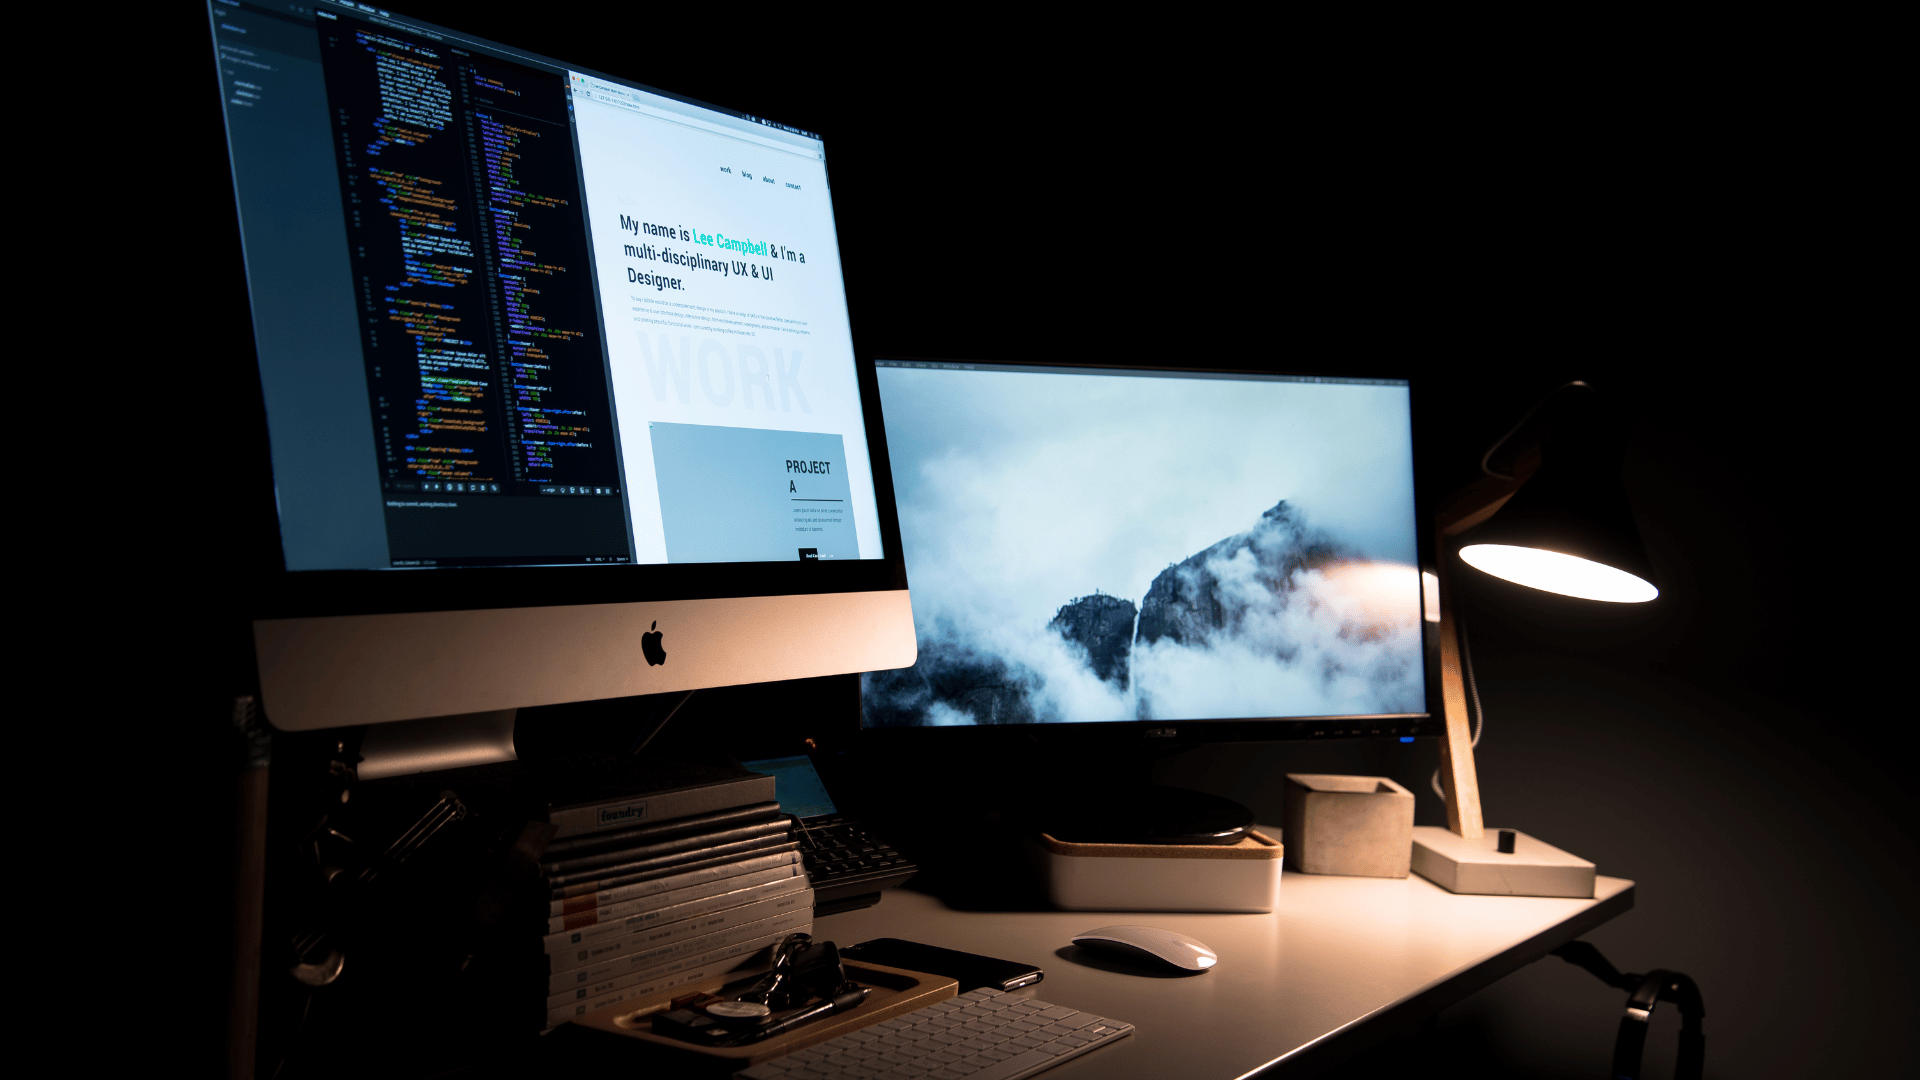
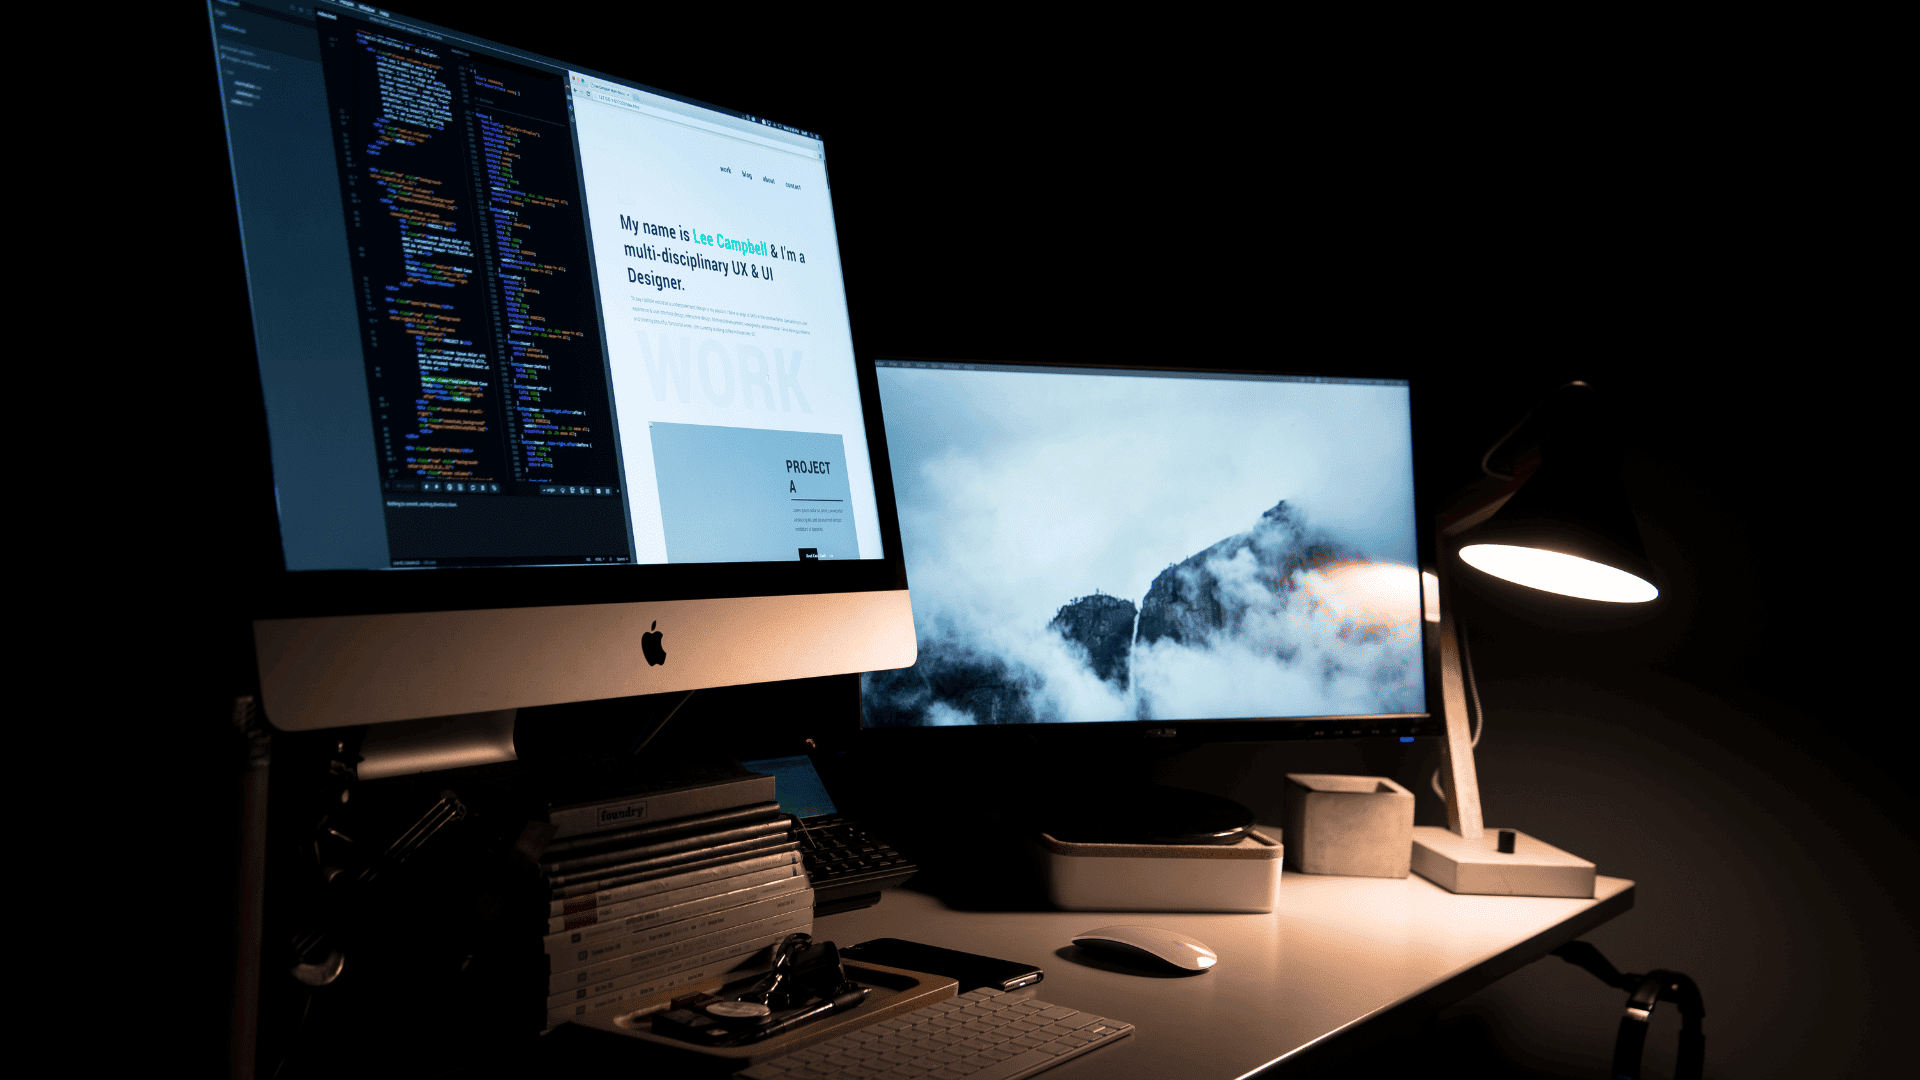
Updates

Changed region(s): [[0.6562, 0.5194, 0.75, 0.6111], [0.75, 0.6111, 0.7812, 0.6417], [0.5938, 0.8556, 0.625, 0.8861]]

diff --git a/package/src/app/services_page/components/sessions.tsx b/package/src/app/services_page/components/sessions.tsx
@@ -1,7 +1,7 @@
 "use client";
 import React, { useEffect, useMemo, useState } from "react";
 import Image from "next/image";
-import { motion } from "framer-motion";
+import { motion, AnimatePresence } from "framer-motion";
 
 // LiveSessionCTA.jsx
 // - Requires: Tailwind CSS + Framer Motion installed in your Next.js project
@@ -14,87 +14,116 @@ export default function LiveSessionCTA({
   tuesdayUrl?: string;
   thursdayUrl?: string;
 }) {
-  // Compute the next Tue/Thu at 6:00 PM in the user's local timezone
+  // Compute the next Tue/Thu at 6:00 PM Eastern Time (handles DST) and return Date in local timezone
   const getNextSessionDate = useMemo(() => {
-    return () => {
-      const targetHours = 18; // 6 PM local time (copy clarifies ET auto-adjust)
-      const now = new Date();
-      const todayDay = now.getDay(); // 0-6 (Sun-Sat)
-      const isTuesday = todayDay === 2;
-      const isThursday = todayDay === 4;
-      const candidateToday = new Date(
-        now.getFullYear(),
-        now.getMonth(),
-        now.getDate(),
-        targetHours,
-        0,
-        0,
-        0
-      );
-      const nowMs = now.getTime();
-      const candidateMs = candidateToday.getTime();
+    const NEW_YORK_TZ = "America/New_York";
 
-      // Helper to add days
-      const addDays = (date: Date, days: number) => {
-        const d = new Date(date);
-        d.setDate(d.getDate() + days);
-        return d;
+    const getNewYorkParts = (date: Date) => {
+      const formatter = new Intl.DateTimeFormat("en-US", {
+        timeZone: NEW_YORK_TZ,
+        year: "numeric",
+        month: "2-digit",
+        day: "2-digit",
+        hour: "2-digit",
+        minute: "2-digit",
+        second: "2-digit",
+        weekday: "short",
+        hour12: false,
+      });
+      const parts = formatter.formatToParts(date);
+      const lookup = (type: string) => parts.find((p) => p.type === type)?.value ?? "0";
+      const weekdayText = (parts.find((p) => p.type === "weekday")?.value ?? "Sun");
+      const weekdayIndexMap: Record<string, number> = {
+        Sun: 0,
+        Mon: 1,
+        Tue: 2,
+        Wed: 3,
+        Thu: 4,
+        Fri: 5,
+        Sat: 6,
+      };
+      return {
+        year: Number(lookup("year")),
+        month: Number(lookup("month")),
+        day: Number(lookup("day")),
+        hour: Number(lookup("hour")),
+        minute: Number(lookup("minute")),
+        second: Number(lookup("second")),
+        weekdayIndex: weekdayIndexMap[weekdayText] ?? 0,
+      };
+    };
+
+    const getNewYorkOffsetMinutes = (dateUTC: Date) => {
+      const fmt = new Intl.DateTimeFormat("en-US", {
+        timeZone: NEW_YORK_TZ,
+        timeZoneName: "shortOffset",
+      });
+      const text = fmt.format(dateUTC); // e.g., "... GMT-4"
+      const match = text.match(/GMT([+-]?\d{1,2})(?::?(\d{2}))?/);
+      if (!match) return 0;
+      const sign = match[1].startsWith("-") ? -1 : 1;
+      const hours = Math.abs(parseInt(match[1], 10));
+      const minutes = match[2] ? parseInt(match[2], 10) : 0;
+      // Parsed value is the UTC offset in hours (e.g., GMT-4 => -240).
+      // For converting local NY time to UTC: UTC = local - offset.
+      // So return the NEGATED offset minutes to add to local to get UTC.
+      return -(sign * (hours * 60 + minutes));
+    };
+
+    return () => {
+      const now = new Date();
+      const nyNow = getNewYorkParts(now);
+      const isTuesday = nyNow.weekdayIndex === 2;
+      const isThursday = nyNow.weekdayIndex === 4;
+      const targetHourNY = 18; // 6 PM ET
+
+      const addDaysCalendar = (year: number, month: number, day: number, daysToAdd: number) => {
+        const ms = Date.UTC(year, month - 1, day) + daysToAdd * 24 * 60 * 60 * 1000;
+        const d = new Date(ms);
+        return {
+          year: d.getUTCFullYear(),
+          month: d.getUTCMonth() + 1,
+          day: d.getUTCDate(),
+        };
       };
 
-      if ((isTuesday || isThursday) && nowMs < candidateMs) {
-        return candidateToday;
+      // Decide how many days to add from NY perspective
+      let daysToAdd = 0;
+      if ((isTuesday || isThursday) && nyNow.hour < targetHourNY) {
+        daysToAdd = 0;
+      } else if (isTuesday && nyNow.hour >= targetHourNY) {
+        daysToAdd = 2; // Tue after 6pm -> Thu
+      } else if (isThursday && nyNow.hour >= targetHourNY) {
+        daysToAdd = 5; // Thu after 6pm -> next Tue
+      } else {
+        const distances = [2, 4].map((target) => (target - nyNow.weekdayIndex + 7) % 7);
+        daysToAdd = Math.min(...distances);
       }
 
-      // If today is Tue/Thu and it's already past 6 PM, jump correctly:
-      // Tue -> Thu (2 days), Thu -> Tue (5 days)
-      if (isTuesday && nowMs >= candidateMs) {
-        const nextDay = new Date(now);
-        nextDay.setDate(nextDay.getDate() + 2);
-        return new Date(
-          nextDay.getFullYear(),
-          nextDay.getMonth(),
-          nextDay.getDate(),
-          targetHours,
-          0,
-          0,
-          0
-        );
-      }
-      if (isThursday && nowMs >= candidateMs) {
-        const nextDay = new Date(now);
-        nextDay.setDate(nextDay.getDate() + 5);
-        return new Date(
-          nextDay.getFullYear(),
-          nextDay.getMonth(),
-          nextDay.getDate(),
-          targetHours,
-          0,
-          0,
-          0
-        );
-      }
+      const nyTargetDate = addDaysCalendar(nyNow.year, nyNow.month, nyNow.day, daysToAdd);
 
-      // Find the next Tuesday or Thursday from other days
-      const daysUntilNext = (() => {
-        const distances = [2, 4].map((target) => (target - todayDay + 7) % 7);
-        return Math.min(...distances);
-      })();
-
-      const nextDay = addDays(now, daysUntilNext);
-      return new Date(
-        nextDay.getFullYear(),
-        nextDay.getMonth(),
-        nextDay.getDate(),
-        targetHours,
-        0,
-        0,
-        0
+      // Use noon to determine offset safely (avoid DST transition hour)
+      const offsetMinutes = getNewYorkOffsetMinutes(
+        new Date(Date.UTC(nyTargetDate.year, nyTargetDate.month - 1, nyTargetDate.day, 12, 0, 0))
       );
+
+      // 18:00 in New York corresponds to UTC = local + offset
+      const utcMillis =
+        Date.UTC(nyTargetDate.year, nyTargetDate.month - 1, nyTargetDate.day, targetHourNY, 0, 0) +
+        offsetMinutes * 60 * 1000;
+
+      return new Date(utcMillis);
     };
   }, []);
 
   const [nextSession, setNextSession] = useState<Date>(getNextSessionDate());
   const [timeLeft, setTimeLeft] = useState<string>("");
+  const [timeParts, setTimeParts] = useState<{ days: number; hours: number; minutes: number; seconds: number }>({
+    days: 0,
+    hours: 0,
+    minutes: 0,
+    seconds: 0,
+  });
 
   useEffect(() => {
     // Update countdown every second
@@ -115,6 +144,7 @@ export default function LiveSessionCTA({
       const seconds = totalSeconds % 60;
       const pad = (n: number) => String(n).padStart(2, "0");
       setTimeLeft(`${days}d ${pad(hours)}h ${pad(minutes)}m ${pad(seconds)}s`);
+      setTimeParts({ days, hours, minutes, seconds });
     };
 
     updateCountdown();
@@ -210,7 +240,7 @@ export default function LiveSessionCTA({
                   Don't Miss the Live Masterclass
                 </h2>
                 <p className="mt-2 text-gray-700 dark:text-gray-300 max-w-xl">
-                  Every Tuesday &amp; Thursday at <span className="font-semibold">6:00 PM ET</span> (auto-adjusts to your timezone). Join
+                  Every Tuesday &amp; Thursday at <span className="font-semibold">6:00 PM ET</span>. Join
                   PaulMichael for real-world strategies, case studies and live Q&amp;A to help you reclaim and protect credit power. Seats
                   fill fast — reserve yours now.
                 </p>
@@ -238,17 +268,67 @@ export default function LiveSessionCTA({
               </div>
 
               {/* Countdown */}
-              <div className="mt-4">
-                <div className="inline-flex items-center gap-2 rounded-xl px-3 py-2 bg-indigo-50 text-indigo-800 ring-1 ring-indigo-200 dark:bg-indigo-900/30 dark:text-indigo-200 dark:ring-indigo-900/50">
-                  <svg xmlns="http://www.w3.org/2000/svg" viewBox="0 0 24 24" fill="currentColor" className="w-4 h-4" aria-hidden>
+              <div className="mt-3" aria-live="polite">
+                <div className="inline-flex items-center gap-1.5 rounded-xl px-2.5 py-1.5 bg-indigo-50 text-indigo-800 ring-1 ring-indigo-200 dark:bg-indigo-900/30 dark:text-indigo-200 dark:ring-indigo-900/50">
+                  <svg xmlns="http://www.w3.org/2000/svg" viewBox="0 0 24 24" fill="currentColor" className="w-3.5 h-3.5" aria-hidden>
                     <path fillRule="evenodd" d="M6.75 3a.75.75 0 01.75.75V5h9V3.75a.75.75 0 011.5 0V5h.75A2.25 2.25 0 0121 7.25v10.5A2.25 2.25 0 0118.75 20H5.25A2.25 2.25 0 013 17.75V7.25A2.25 2.25 0 015.25 5H6V3.75a.75.75 0 01.75-.75zm0 3h10.5a.75.75 0 01.75.75V9H6V6.75a.75.75 0 01.75-.75zM6 10.5h12v7.25a.75.75 0 01-.75.75H6.75a.75.75 0 01-.75-.75V10.5z" clipRule="evenodd" />
                   </svg>
-                  <span className="text-sm font-semibold">Next session starts in:</span>
-                  <span className="text-sm tabular-nums font-mono" aria-live="polite">{timeLeft}</span>
+                  <span className="text-xs font-semibold">Next session starts in</span>
                 </div>
-                <p className="sr-only" aria-hidden={false}>
-                  Countdown to the next live masterclass
-                </p>
+
+                {/* Enhanced segmented display with glow and flip animation */}
+                <motion.div
+                  className="relative mt-2.5 max-w-sm"
+                  initial={{ scale: 0.98, boxShadow: "0 0 0 rgba(79,70,229,0)" }}
+                  animate={{
+                    scale: [0.98, 1, 0.98],
+                    boxShadow: [
+                      "0 0 0 rgba(79,70,229,0)",
+                      "0 0 24px rgba(79,70,229,0.22)",
+                      "0 0 0 rgba(79,70,229,0)",
+                    ],
+                  }}
+                  transition={{ duration: 4, repeat: Infinity, ease: "easeInOut" }}
+                >
+                  <div className="absolute -inset-1 rounded-2xl bg-gradient-to-r from-indigo-500/15 via-fuchsia-400/15 to-indigo-500/15 blur-lg" aria-hidden />
+                  <div className="relative grid grid-cols-4 gap-2 sm:gap-2.5 bg-white/40 dark:bg-white/0 rounded-2xl p-1.5">
+                  {[
+                    { label: "Days", value: timeParts.days },
+                    { label: "Hours", value: timeParts.hours },
+                    { label: "Minutes", value: timeParts.minutes },
+                    { label: "Seconds", value: timeParts.seconds },
+                  ].map((item, idx) => (
+                    <motion.div
+                      key={item.label}
+                      initial={{ y: 6, opacity: 0 }}
+                      animate={{ y: 0, opacity: 1 }}
+                      transition={{ duration: 0.3, delay: idx * 0.05 }}
+                      className="relative rounded-xl p-2.5 sm:p-3 bg-white/80 dark:bg-white/5 ring-1 ring-indigo-200/60 dark:ring-indigo-800/50 shadow-sm backdrop-blur-md"
+                    >
+                      <div className="absolute inset-x-0 -top-px h-[2px] bg-gradient-to-r from-indigo-500 via-fuchsia-400 to-indigo-500 rounded-full opacity-70" />
+                      <div className="text-center [perspective:600px]">
+                        <div className="relative h-[26px] sm:h-[32px]">
+                          <AnimatePresence mode="popLayout" initial={false}>
+                            <motion.span
+                              key={item.value}
+                              initial={{ rotateX: -90, opacity: 0, y: -6 }}
+                              animate={{ rotateX: 0, opacity: 1, y: 0 }}
+                              exit={{ rotateX: 90, opacity: 0, y: 6 }}
+                              transition={{ duration: 0.28, ease: "easeOut" }}
+                              className="absolute inset-0 grid place-items-center text-xl sm:text-2xl font-extrabold tracking-tight tabular-nums"
+                            >
+                              {String(item.value).padStart(2, "0")}
+                            </motion.span>
+                          </AnimatePresence>
+                        </div>
+                        <div className="mt-0.5 text-[9px] sm:text-[10px] uppercase tracking-wider text-gray-600 dark:text-gray-300">
+                          {item.label}
+                        </div>
+                      </div>
+                    </motion.div>
+                  ))}
+                  </div>
+                </motion.div>
               </div>
             </div>
 
@@ -264,7 +344,7 @@ export default function LiveSessionCTA({
                   <div>
                     <p className="text-xs font-semibold text-gray-600 dark:text-gray-400">Next live classes</p>
                     <h4 className="mt-1 text-lg font-bold text-gray-900 dark:text-white">Weekly — Tue &amp; Thu</h4>
-                    <p className="mt-1 text-sm text-gray-700 dark:text-gray-300">6:00 PM EST • Live on Google Meet</p>
+                    <p className="mt-1 text-sm text-gray-700 dark:text-gray-300">6:00 PM ET • Live on Google Meet</p>
                   </div>
 
                   <div className="flex flex-col items-end">

diff --git a/package/src/app/services_page/components/liveHero.tsx b/package/src/app/services_page/components/liveHero.tsx
@@ -52,7 +52,7 @@ const LiveHero: React.FC<LiveHeroProps> = ({ channelUrl, className }) => {
 
           <p className="mx-auto mt-4 max-w-2xl text-base sm:text-lg md:text-xl text-white/85 leading-relaxed">
             Every <span className="font-semibold text-red-400">Tuesday</span> and <span className="font-semibold text-red-400">Thursday</span> 
-            at <span className="font-semibold text-red-400">6:00 PM EST</span>.  
+            at <span className="font-semibold text-red-400">6:00 PM ET</span>.  
             Be part of an engaging community experience!
           </p>
 
